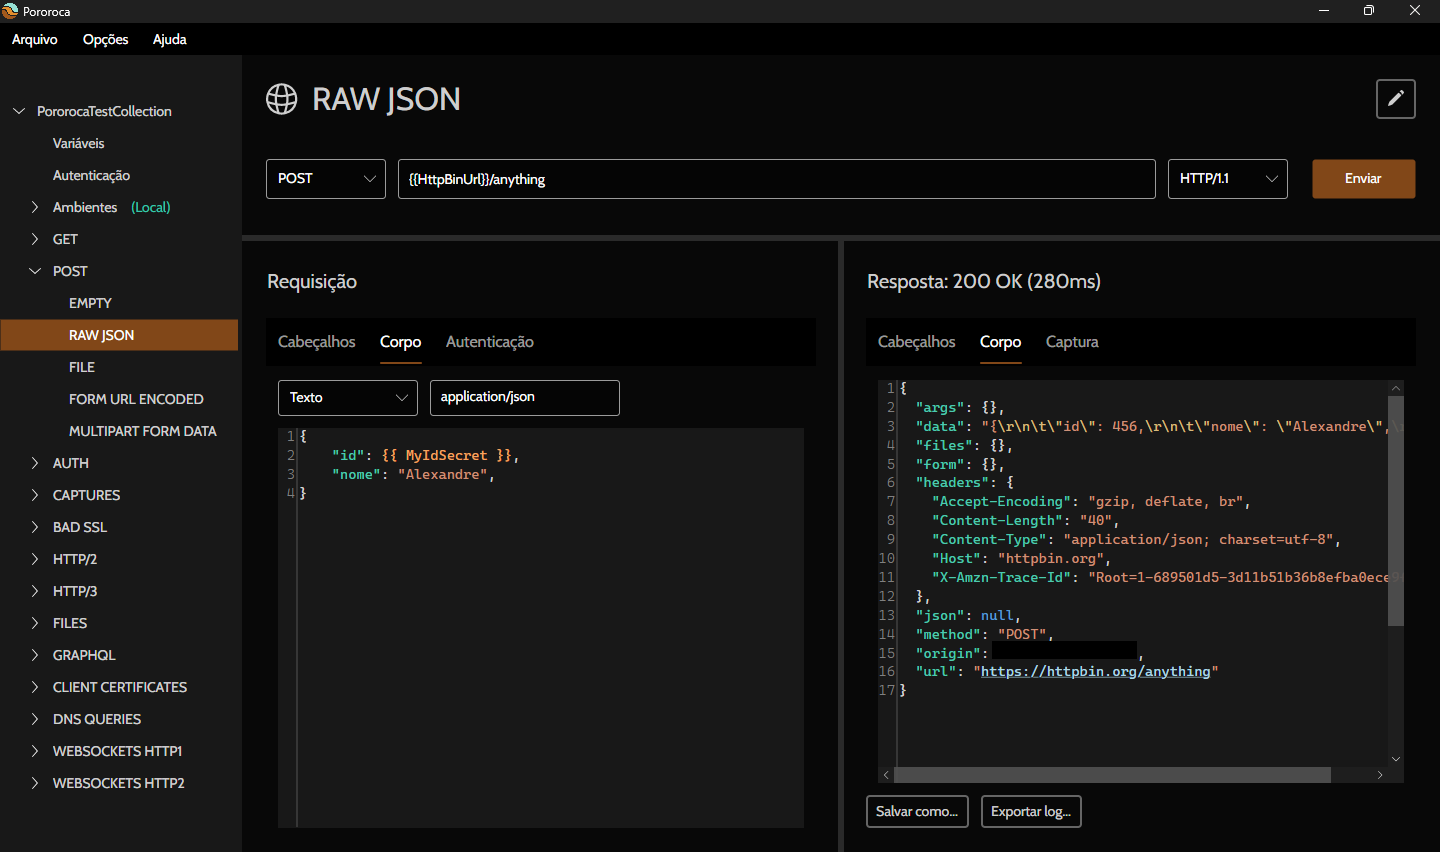
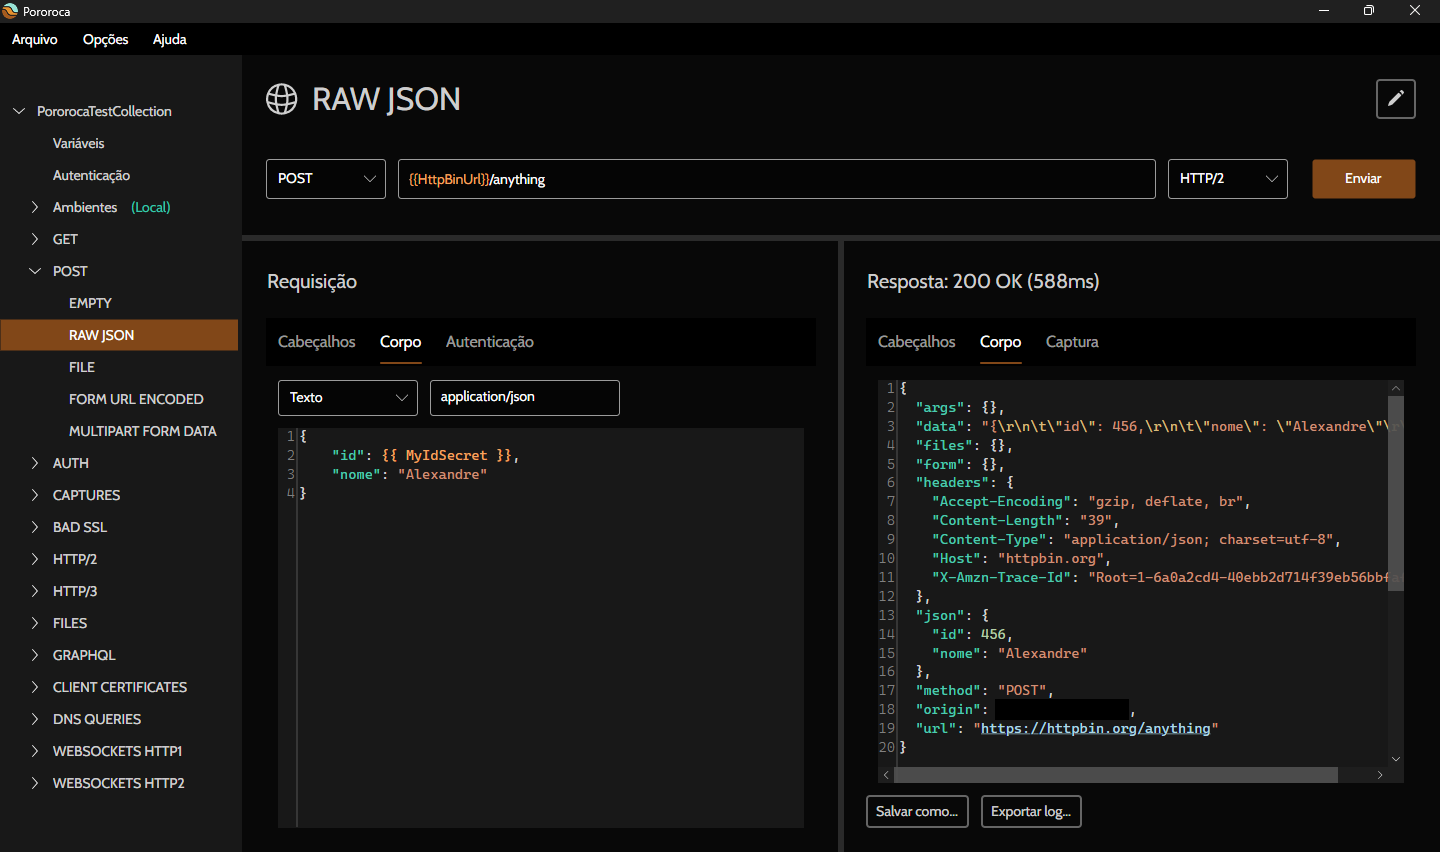
docs: update READMEs

diff --git a/README_pt.md b/README_pt.md
@@ -21,9 +21,9 @@ Leia as [instruções](https://pororoca.io/pt/docs/installation) e baixe o progr
 * Coleções e ambientes podem ser exportados juntos em um mesmo arquivo.
 * Compatibilidade total com o Postman ao importar ou exportar.
 * Consumo muito menor de memória - duas a três vezes menos do que o Postman.
-* Suporte a idiomas.
+* Suporte a vários idiomas.
+* WebSockets, em HTTP/1.1 e HTTP/2.
 * Testes automatizados.
-* WebSockets.
 * Inicialização rápida.
 * Gratuito e código-aberto.
 
@@ -53,7 +53,7 @@ Entre em contato se desejar suporte mais avançado, customizações especiais ou
 
 ## Doações
 
-Doações em dinheiro são muito importantes para nós e ajudam a cobrir nossas despesas. Leia mais no nosso [anúncio](https://github.com/alexandrehtrb/Pororoca/discussions/159)!
+Doações em dinheiro nos ajudam a continuar o desenvolvimento e cobrir despesas. Leia mais no nosso [anúncio](https://github.com/alexandrehtrb/Pororoca/discussions/159)!
 
 Nossos canais de doação são:
 

diff --git a/README.md b/README.md
@@ -22,8 +22,8 @@ Read the [instructions](https://pororoca.io/docs/installation) and download the 
 * Full export and import compatibility with Postman.
 * Much lower memory usage - two to three times less than Postman.
 * Multilanguage support.
+* WebSockets, over HTTP/1.1 and HTTP/2.
 * Automated testing.
-* WebSockets.
 * Fast startup time.
 * Free and open-source.
 
@@ -53,7 +53,7 @@ Contact us if you are looking for more advanced support, special customizations 
 
 ## Donations
 
-Money donations are very important and help us cover our expenses. Read more in our [announcement](https://github.com/alexandrehtrb/Pororoca/discussions/159)!
+Money donations help us continue the development of the project and cover our expenses. Read more in our [announcement](https://github.com/alexandrehtrb/Pororoca/discussions/159)!
 
 Our donation channels are:
 

diff --git a/README_de.md b/README_de.md
@@ -22,8 +22,8 @@ Folge der [Installationsanleitung](https://pororoca.io/docs/installation) und la
 * Vollständige Import-/Export-Kompatibilität zu Postman
 * Deutlich geringerer Speicherverbrauch – zwei- bis dreimal weniger als Postman
 * Mehrsprachige Benutzeroberfläche
+* WebSockets in HTTP/1.1 und HTTP/2
 * Automatisierte Tests
-* WebSockets-Unterstützung
 * Schnelle Startzeit
 * Frei und Open Source
 
@@ -53,7 +53,7 @@ Kontaktiere uns für erweiterten Support, individuelle Anpassungen oder Schulung
 
 ## Spenden
 
-Geldspenden sind sehr wichtig und helfen uns, unsere Kosten zu decken. Mehr dazu in unserer [Ankündigung](https://github.com/alexandrehtrb/Pororoca/discussions/159)!
+Geldspenden helfen uns, die Entwicklung des Projekts fortzusetzen und unsere Ausgaben zu decken. Mehr dazu in unserer [Ankündigung](https://github.com/alexandrehtrb/Pororoca/discussions/159)!
 
 Unsere Spendenkanäle sind:
 

diff --git a/README_es.md b/README_es.md
@@ -22,8 +22,8 @@ Lee las [instrucciones](https://pororoca.io/docs/installation) y descarga el pro
 * Compatibilidad completa de exportación e importación con Postman.
 * Mucho menor uso de memoria: entre dos y tres veces menos que Postman.
 * Soporte multilenguaje.
+* WebSockets, en HTTP/1.1 y HTTP/2.
 * Pruebas automatizadas.
-* WebSockets.
 * Arranque rápido.
 * Gratuito y de código abierto.
 
@@ -53,7 +53,7 @@ Contáctanos si estás interesado en soporte más avanzado, personalizaciones es
 
 ## Donaciones
 
-Las donaciones en efectivo son muy importantes para nosotros y nos ayudan a cubrir nuestros gastos. Lea más en nuestro [anuncio](https://github.com/alexandrehtrb/Pororoca/discussions/159)!
+Las donaciones en efectivo nos ayudan a continuar con el desarrollo del proyecto y a cubrir nuestros gastos. Lea más en nuestro [anuncio](https://github.com/alexandrehtrb/Pororoca/discussions/159)!
 
 Nuestros canales de donación son:
 

diff --git a/README_it.md b/README_it.md
@@ -22,8 +22,8 @@ Leggi le [istruzioni](https://pororoca.io/docs/installation) e scarica il progra
 * Piena compatibilità di esportazione e importazione con Postman.
 * Utilizzo della memoria molto inferiore, da due a tre volte inferiore rispetto a Postman.
 * Supporto multilingua.
+* WebSockets, in HTTP/1.1 e HTTP/2.
 * Test automatizzati.
-* WebSockets.
 * Tempo di avvio rapido.
 * Gratuito e open-source.
 
@@ -53,7 +53,7 @@ Contattaci se stai cercando un supporto più avanzato, personalizzazioni special
 
 ## Donazioni
 
-Le donazioni in denaro sono molto importanti e ci aiutano a coprire le nostre spese. Scopri di più nel nostro [annuncio](https://github.com/alexandrehtrb/Pororoca/discussions/159)!
+Le donazioni in denaro ci aiutano a proseguire nello sviluppo del progetto e a coprire le nostre spese. Scopri di più nel nostro [annuncio](https://github.com/alexandrehtrb/Pororoca/discussions/159)!
 
 I nostri canali di donazione sono:
 

diff --git a/README_pl.md b/README_pl.md
@@ -22,8 +22,8 @@ Przeczytaj [instrukcje](https://pororoca.io/docs/installation) i pobierz program
 * Pełna kompatybilność eksportu i importu z Postmanem.
 * Znacznie niższe zużycie pamięci - dwa do trzech razy mniej niż Postman.
 * Wsparcie wielojęzyczne.
+* WebSockets w HTTP/1.1 i HTTP/2.
 * Automatyczne testowanie.
-* WebSockets.
 * Szybki czas uruchamiania.
 * Darmowe i open-source.
 
@@ -53,7 +53,7 @@ Skontaktuj się z nami, jeśli szukasz bardziej zaawansowanego wsparcia, specjal
 
 ## Darowizny
 
-Darowizny pieniężne są bardzo ważne i pomagają nam pokryć nasze wydatki. Przeczytaj więcej w naszym [ogłoszeniu](https://github.com/alexandrehtrb/Pororoca/discussions/159)!
+Darowizny pieniężne pomagają nam kontynuować rozwój projektu i pokrywać nasze wydatki. Przeczytaj więcej w naszym [ogłoszeniu](https://github.com/alexandrehtrb/Pororoca/discussions/159)!
 
 Nasze kanały darowizn to:
 

diff --git a/README_ru.md b/README_ru.md
@@ -22,8 +22,8 @@ Pororoca - это инструмент тестирования HTTP, вдохн
 * Полная совместимость с Postman при экспорте и импорте.
 * Гораздо меньшее использование памяти - в два-три раза меньше, чем у Postman.
 * Поддержка нескольких языков.
+* WebSockets в HTTP/1.1 и HTTP/2.
 * Автоматизированное тестирование.
-* WebSockets.
 * Быстрое время запуска.
 * Бесплатный и с открытым исходным кодом.
 
@@ -53,7 +53,7 @@ Pororoca не синхронизирует пользовательские да
 
 ## Пожертвования
 
-Денежные пожертвования очень важны и помогают нам покрывать наши расходы. Подробнее в нашем [объявлении](https://github.com/alexandrehtrb/Pororoca/discussions/159)!
+Денежные пожертвования помогают нам продолжать развитие проекта и покрывать наши расходы. Подробнее в нашем [объявлении](https://github.com/alexandrehtrb/Pororoca/discussions/159)!
 
 Наши каналы пожертвований:
 